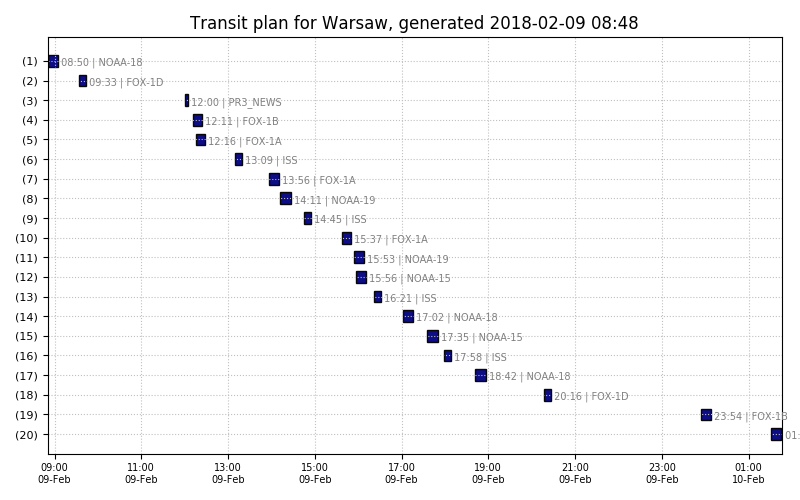
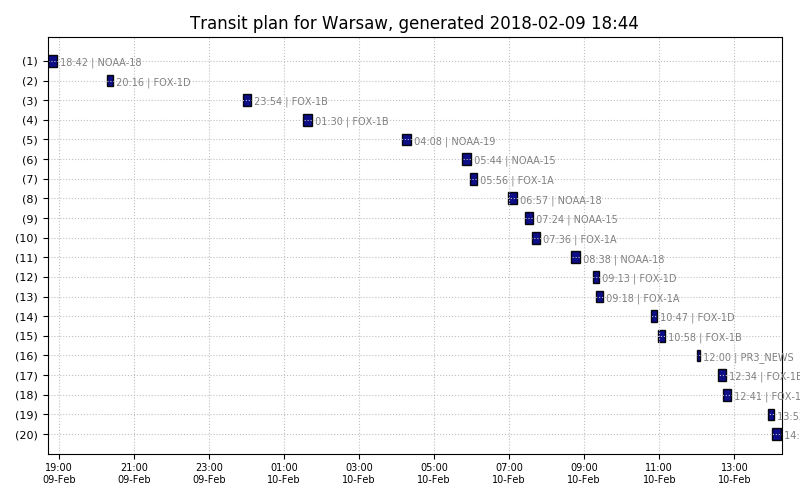
code style fix

diff --git a/var/nextpass.html b/var/nextpass.html
@@ -1,103 +1,103 @@
 <table>
 <tr><td>#</td><td>satellite</td><td>start</td><td>duration</td><td>peak</td><td>azimuth</td><td>freq</td><td>process with</td><tr>
-<tr><td>1</td><td>NOAA-18</td><td>2018-02-09 08:50</td><td>14:13</td><td>36°</td><td>299° (WNW←↖)</td><td>137912500Hz</td><td>modules/noaa/noaa.sh</td><tr>
-<tr><td>2</td><td>FOX-1D</td><td>2018-02-09 09:33</td><td>10:47</td><td>71°</td><td>102° (E→)</td><td>145880000Hz</td><td>modules/iss/iss_voice.sh</td><tr>
-<tr><td>3</td><td>PR3_NEWS</td><td>2018-02-09 12:00</td><td>05:00</td><td>0°</td><td>0° (N↑)</td><td>98988000Hz</td><td>modules/fm/fm.sh</td><tr>
-<tr><td>4</td><td>FOX-1B</td><td>2018-02-09 12:11</td><td>12:21</td><td>70°</td><td>257° (WSW←↙)</td><td>145960000Hz</td><td>modules/iss/iss_voice.sh</td><tr>
-<tr><td>5</td><td>FOX-1A</td><td>2018-02-09 12:16</td><td>12:49</td><td>25°</td><td>22° (N↑)</td><td>145980000Hz</td><td>modules/iss/iss_voice.sh</td><tr>
-<tr><td>6</td><td>ISS</td><td>2018-02-09 13:09</td><td>09:14</td><td>22°</td><td>147° (SE↘)</td><td>145800000Hz</td><td>modules/iss/iss_voice.sh</td><tr>
-<tr><td>7</td><td>FOX-1A</td><td>2018-02-09 13:56</td><td>14:06</td><td>70°</td><td>44° (NNE↑↗)</td><td>145980000Hz</td><td>modules/iss/iss_voice.sh</td><tr>
-<tr><td>8</td><td>NOAA-19</td><td>2018-02-09 14:11</td><td>15:04</td><td>72°</td><td>69° (ENE→↗)</td><td>137100000Hz</td><td>modules/noaa/noaa.sh</td><tr>
-<tr><td>9</td><td>ISS</td><td>2018-02-09 14:45</td><td>09:59</td><td>63°</td><td>166° (SSE↓↘)</td><td>145800000Hz</td><td>modules/iss/iss_voice.sh</td><tr>
-<tr><td>10</td><td>FOX-1A</td><td>2018-02-09 15:37</td><td>13:07</td><td>26°</td><td>242° (SW↙)</td><td>145980000Hz</td><td>modules/iss/iss_voice.sh</td><tr>
-<tr><td>11</td><td>NOAA-19</td><td>2018-02-09 15:53</td><td>13:36</td><td>22°</td><td>269° (WSW←↙)</td><td>137100000Hz</td><td>modules/noaa/noaa.sh</td><tr>
-<tr><td>12</td><td>NOAA-15</td><td>2018-02-09 15:56</td><td>13:26</td><td>27°</td><td>57° (NE↗)</td><td>137620000Hz</td><td>modules/noaa/noaa.sh</td><tr>
-<tr><td>13</td><td>ISS</td><td>2018-02-09 16:21</td><td>10:02</td><td>76°</td><td>186° (S↓)</td><td>145800000Hz</td><td>modules/iss/iss_voice.sh</td><tr>
-<tr><td>14</td><td>NOAA-18</td><td>2018-02-09 17:02</td><td>13:48</td><td>29°</td><td>57° (NE↗)</td><td>137912500Hz</td><td>modules/noaa/noaa.sh</td><tr>
-<tr><td>15</td><td>NOAA-15</td><td>2018-02-09 17:35</td><td>14:36</td><td>60°</td><td>257° (WSW←↙)</td><td>137620000Hz</td><td>modules/noaa/noaa.sh</td><tr>
-<tr><td>16</td><td>ISS</td><td>2018-02-09 17:58</td><td>09:41</td><td>34°</td><td>205° (SSW↓↙)</td><td>145800000Hz</td><td>modules/iss/iss_voice.sh</td><tr>
-<tr><td>17</td><td>NOAA-18</td><td>2018-02-09 18:42</td><td>15:05</td><td>58°</td><td>257° (WSW←↙)</td><td>137912500Hz</td><td>modules/noaa/noaa.sh</td><tr>
-<tr><td>18</td><td>FOX-1D</td><td>2018-02-09 20:16</td><td>10:52</td><td>75°</td><td>73° (ENE→↗)</td><td>145880000Hz</td><td>modules/iss/iss_voice.sh</td><tr>
-<tr><td>19</td><td>FOX-1B</td><td>2018-02-09 23:54</td><td>13:11</td><td>21°</td><td>89° (ENE→↗)</td><td>145960000Hz</td><td>modules/iss/iss_voice.sh</td><tr>
-<tr><td>20</td><td>FOX-1B</td><td>2018-02-10 01:30</td><td>14:35</td><td>74°</td><td>287° (W←)</td><td>145960000Hz</td><td>modules/iss/iss_voice.sh</td><tr>
-<tr><td>21</td><td>NOAA-19</td><td>2018-02-10 04:08</td><td>15:13</td><td>82°</td><td>288° (W←)</td><td>137100000Hz</td><td>modules/noaa/noaa.sh</td><tr>
-<tr><td>22</td><td>NOAA-15</td><td>2018-02-10 05:44</td><td>13:59</td><td>33°</td><td>95° (E→)</td><td>137620000Hz</td><td>modules/noaa/noaa.sh</td><tr>
-<tr><td>23</td><td>FOX-1A</td><td>2018-02-10 05:56</td><td>11:21</td><td>26°</td><td>117° (ESE→↘)</td><td>145980000Hz</td><td>modules/iss/iss_voice.sh</td><tr>
-<tr><td>24</td><td>NOAA-18</td><td>2018-02-10 06:57</td><td>14:30</td><td>37°</td><td>96° (E→)</td><td>137912500Hz</td><td>modules/noaa/noaa.sh</td><tr>
-<tr><td>25</td><td>NOAA-15</td><td>2018-02-10 07:24</td><td>14:11</td><td>46°</td><td>294° (WNW←↖)</td><td>137620000Hz</td><td>modules/noaa/noaa.sh</td><tr>
-<tr><td>26</td><td>FOX-1A</td><td>2018-02-10 07:36</td><td>12:32</td><td>55°</td><td>319° (NW↖)</td><td>145980000Hz</td><td>modules/iss/iss_voice.sh</td><tr>
-<tr><td>27</td><td>NOAA-18</td><td>2018-02-10 08:38</td><td>14:28</td><td>43°</td><td>296° (WNW←↖)</td><td>137912500Hz</td><td>modules/noaa/noaa.sh</td><tr>
-<tr><td>28</td><td>FOX-1D</td><td>2018-02-10 09:13</td><td>10:37</td><td>42°</td><td>98° (E→)</td><td>145880000Hz</td><td>modules/iss/iss_voice.sh</td><tr>
-<tr><td>29</td><td>FOX-1A</td><td>2018-02-10 09:18</td><td>11:53</td><td>21°</td><td>343° (NNW↑↖)</td><td>145980000Hz</td><td>modules/iss/iss_voice.sh</td><tr>
-<tr><td>30</td><td>FOX-1D</td><td>2018-02-10 10:47</td><td>09:42</td><td>20°</td><td>297° (WNW←↖)</td><td>145880000Hz</td><td>modules/iss/iss_voice.sh</td><tr>
-<tr><td>31</td><td>FOX-1B</td><td>2018-02-10 10:58</td><td>11:42</td><td>27°</td><td>60° (NE↗)</td><td>145960000Hz</td><td>modules/iss/iss_voice.sh</td><tr>
-<tr><td>32</td><td>PR3_NEWS</td><td>2018-02-10 12:00</td><td>05:00</td><td>0°</td><td>0° (N↑)</td><td>98988000Hz</td><td>modules/fm/fm.sh</td><tr>
-<tr><td>33</td><td>FOX-1B</td><td>2018-02-10 12:34</td><td>12:15</td><td>43°</td><td>263° (WSW←↙)</td><td>145960000Hz</td><td>modules/iss/iss_voice.sh</td><tr>
-<tr><td>34</td><td>FOX-1A</td><td>2018-02-10 12:41</td><td>13:29</td><td>35°</td><td>31° (NNE↑↗)</td><td>145980000Hz</td><td>modules/iss/iss_voice.sh</td><tr>
-<tr><td>35</td><td>ISS</td><td>2018-02-10 13:53</td><td>09:56</td><td>49°</td><td>160° (SSE↓↘)</td><td>145800000Hz</td><td>modules/iss/iss_voice.sh</td><tr>
-<tr><td>36</td><td>NOAA-19</td><td>2018-02-10 14:00</td><td>15:02</td><td>59°</td><td>67° (NE↗)</td><td>137100000Hz</td><td>modules/noaa/noaa.sh</td><tr>
-<tr><td>37</td><td>FOX-1A</td><td>2018-02-10 14:21</td><td>14:07</td><td>66°</td><td>231° (SW↙)</td><td>145980000Hz</td><td>modules/iss/iss_voice.sh</td><tr>
-<tr><td>38</td><td>ISS</td><td>2018-02-10 15:29</td><td>10:06</td><td>81°</td><td>180° (S↓)</td><td>145800000Hz</td><td>modules/iss/iss_voice.sh</td><tr>
-<tr><td>39</td><td>NOAA-19</td><td>2018-02-10 15:41</td><td>13:55</td><td>26°</td><td>267° (WSW←↙)</td><td>137100000Hz</td><td>modules/noaa/noaa.sh</td><tr>
-<tr><td>40</td><td>NOAA-18</td><td>2018-02-10 16:50</td><td>13:33</td><td>25°</td><td>55° (NE↗)</td><td>137912500Hz</td><td>modules/noaa/noaa.sh</td><tr>
-<tr><td>41</td><td>NOAA-15</td><td>2018-02-10 17:10</td><td>14:41</td><td>88°</td><td>72° (ENE→↗)</td><td>137620000Hz</td><td>modules/noaa/noaa.sh</td><tr>
-<tr><td>42</td><td>NOAA-18</td><td>2018-02-10 18:30</td><td>15:06</td><td>71°</td><td>255° (WSW←↙)</td><td>137912500Hz</td><td>modules/noaa/noaa.sh</td><tr>
-<tr><td>43</td><td>FOX-1D</td><td>2018-02-10 19:56</td><td>10:40</td><td>45°</td><td>69° (ENE→↗)</td><td>145880000Hz</td><td>modules/iss/iss_voice.sh</td><tr>
-<tr><td>44</td><td>FOX-1B</td><td>2018-02-11 00:16</td><td>13:58</td><td>31°</td><td>93° (E→)</td><td>145960000Hz</td><td>modules/iss/iss_voice.sh</td><tr>
-<tr><td>45</td><td>FOX-1B</td><td>2018-02-11 01:53</td><td>14:21</td><td>51°</td><td>291° (W←)</td><td>145960000Hz</td><td>modules/iss/iss_voice.sh</td><tr>
-<tr><td>46</td><td>NOAA-19</td><td>2018-02-11 03:56</td><td>15:14</td><td>83°</td><td>106° (E→)</td><td>137100000Hz</td><td>modules/noaa/noaa.sh</td><tr>
-<tr><td>47</td><td>NOAA-15</td><td>2018-02-11 05:19</td><td>13:10</td><td>21°</td><td>90° (E→)</td><td>137620000Hz</td><td>modules/noaa/noaa.sh</td><tr>
-<tr><td>48</td><td>NOAA-19</td><td>2018-02-11 05:37</td><td>13:23</td><td>22°</td><td>306° (WNW←↖)</td><td>137100000Hz</td><td>modules/noaa/noaa.sh</td><tr>
-<tr><td>49</td><td>FOX-1A</td><td>2018-02-11 06:21</td><td>12:17</td><td>56°</td><td>126° (ESE→↘)</td><td>145980000Hz</td><td>modules/iss/iss_voice.sh</td><tr>
-<tr><td>50</td><td>NOAA-18</td><td>2018-02-11 06:46</td><td>14:12</td><td>30°</td><td>94° (E→)</td><td>137912500Hz</td><td>modules/noaa/noaa.sh</td><tr>
-<tr><td>51</td><td>NOAA-15</td><td>2018-02-11 06:59</td><td>14:32</td><td>70°</td><td>289° (W←)</td><td>137620000Hz</td><td>modules/noaa/noaa.sh</td><tr>
-<tr><td>52</td><td>FOX-1A</td><td>2018-02-11 08:01</td><td>12:20</td><td>33°</td><td>329° (NW↖)</td><td>145980000Hz</td><td>modules/iss/iss_voice.sh</td><tr>
-<tr><td>53</td><td>NOAA-18</td><td>2018-02-11 08:27</td><td>14:41</td><td>51°</td><td>294° (WNW←↖)</td><td>137912500Hz</td><td>modules/noaa/noaa.sh</td><tr>
-<tr><td>54</td><td>FOX-1D</td><td>2018-02-11 08:53</td><td>10:13</td><td>26°</td><td>94° (E→)</td><td>145880000Hz</td><td>modules/iss/iss_voice.sh</td><tr>
-<tr><td>55</td><td>FOX-1D</td><td>2018-02-11 10:27</td><td>10:15</td><td>30°</td><td>293° (WNW←↖)</td><td>145880000Hz</td><td>modules/iss/iss_voice.sh</td><tr>
-<tr><td>56</td><td>FOX-1B</td><td>2018-02-11 11:19</td><td>12:18</td><td>40°</td><td>65° (NE↗)</td><td>145960000Hz</td><td>modules/iss/iss_voice.sh</td><tr>
-<tr><td>57</td><td>FOX-1A</td><td>2018-02-11 11:25</td><td>12:32</td><td>22°</td><td>18° (N↑)</td><td>145980000Hz</td><td>modules/iss/iss_voice.sh</td><tr>
-<tr><td>58</td><td>PR3_NEWS</td><td>2018-02-11 12:00</td><td>05:00</td><td>0°</td><td>0° (N↑)</td><td>98988000Hz</td><td>modules/fm/fm.sh</td><tr>
-<tr><td>59</td><td>FOX-1B</td><td>2018-02-11 12:56</td><td>11:52</td><td>28°</td><td>268° (WSW←↙)</td><td>145960000Hz</td><td>modules/iss/iss_voice.sh</td><tr>
-<tr><td>60</td><td>FOX-1A</td><td>2018-02-11 13:06</td><td>14:06</td><td>55°</td><td>40° (NNE↑↗)</td><td>145980000Hz</td><td>modules/iss/iss_voice.sh</td><tr>
-<tr><td>61</td><td>NOAA-19</td><td>2018-02-11 13:48</td><td>14:46</td><td>49°</td><td>64° (NE↗)</td><td>137100000Hz</td><td>modules/noaa/noaa.sh</td><tr>
-<tr><td>62</td><td>ISS</td><td>2018-02-11 14:37</td><td>10:02</td><td>78°</td><td>174° (SSE↓↘)</td><td>145800000Hz</td><td>modules/iss/iss_voice.sh</td><tr>
-<tr><td>63</td><td>FOX-1A</td><td>2018-02-11 14:46</td><td>13:36</td><td>35°</td><td>239° (SW↙)</td><td>145980000Hz</td><td>modules/iss/iss_voice.sh</td><tr>
-<tr><td>64</td><td>NOAA-19</td><td>2018-02-11 15:30</td><td>14:24</td><td>32°</td><td>265° (WSW←↙)</td><td>137100000Hz</td><td>modules/noaa/noaa.sh</td><tr>
-<tr><td>65</td><td>ISS</td><td>2018-02-11 16:13</td><td>09:59</td><td>61°</td><td>194° (S↓)</td><td>145800000Hz</td><td>modules/iss/iss_voice.sh</td><tr>
-<tr><td>66</td><td>NOAA-18</td><td>2018-02-11 16:39</td><td>13:07</td><td>21°</td><td>52° (NE↗)</td><td>137912500Hz</td><td>modules/noaa/noaa.sh</td><tr>
-<tr><td>67</td><td>NOAA-15</td><td>2018-02-11 16:45</td><td>14:29</td><td>59°</td><td>68° (ENE→↗)</td><td>137620000Hz</td><td>modules/noaa/noaa.sh</td><tr>
-<tr><td>68</td><td>ISS</td><td>2018-02-11 17:50</td><td>09:09</td><td>20°</td><td>213° (SSW↓↙)</td><td>145800000Hz</td><td>modules/iss/iss_voice.sh</td><tr>
-<tr><td>69</td><td>NOAA-18</td><td>2018-02-11 18:18</td><td>15:04</td><td>86°</td><td>253° (WSW←↙)</td><td>137912500Hz</td><td>modules/noaa/noaa.sh</td><tr>
-<tr><td>70</td><td>NOAA-15</td><td>2018-02-11 18:26</td><td>13:38</td><td>25°</td><td>267° (WSW←↙)</td><td>137620000Hz</td><td>modules/noaa/noaa.sh</td><tr>
-<tr><td>71</td><td>FOX-1D</td><td>2018-02-11 19:36</td><td>10:16</td><td>28°</td><td>65° (NE↗)</td><td>145880000Hz</td><td>modules/iss/iss_voice.sh</td><tr>
-<tr><td>72</td><td>FOX-1D</td><td>2018-02-11 21:10</td><td>10:24</td><td>28°</td><td>264° (WSW←↙)</td><td>145880000Hz</td><td>modules/iss/iss_voice.sh</td><tr>
-<tr><td>73</td><td>FOX-1B</td><td>2018-02-12 00:38</td><td>14:29</td><td>46°</td><td>97° (E→)</td><td>145960000Hz</td><td>modules/iss/iss_voice.sh</td><tr>
-<tr><td>74</td><td>FOX-1B</td><td>2018-02-12 02:15</td><td>13:56</td><td>35°</td><td>296° (WNW←↖)</td><td>145960000Hz</td><td>modules/iss/iss_voice.sh</td><tr>
-<tr><td>75</td><td>NOAA-19</td><td>2018-02-12 03:45</td><td>15:13</td><td>69°</td><td>103° (E→)</td><td>137100000Hz</td><td>modules/noaa/noaa.sh</td><tr>
-<tr><td>76</td><td>NOAA-19</td><td>2018-02-12 05:26</td><td>13:47</td><td>26°</td><td>304° (WNW←↖)</td><td>137100000Hz</td><td>modules/noaa/noaa.sh</td><tr>
-<tr><td>77</td><td>NOAA-15</td><td>2018-02-12 06:34</td><td>14:37</td><td>78°</td><td>104° (E→)</td><td>137620000Hz</td><td>modules/noaa/noaa.sh</td><tr>
-<tr><td>78</td><td>NOAA-18</td><td>2018-02-12 06:34</td><td>13:54</td><td>25°</td><td>92° (E→)</td><td>137912500Hz</td><td>modules/noaa/noaa.sh</td><tr>
-<tr><td>79</td><td>FOX-1A</td><td>2018-02-12 06:46</td><td>12:34</td><td>73°</td><td>315° (NW↖)</td><td>145980000Hz</td><td>modules/iss/iss_voice.sh</td><tr>
-<tr><td>80</td><td>NOAA-15</td><td>2018-02-12 08:14</td><td>12:53</td><td>22°</td><td>305° (WNW←↖)</td><td>137620000Hz</td><td>modules/noaa/noaa.sh</td><tr>
-<tr><td>81</td><td>NOAA-18</td><td>2018-02-12 08:15</td><td>14:50</td><td>62°</td><td>292° (W←)</td><td>137912500Hz</td><td>modules/noaa/noaa.sh</td><tr>
-<tr><td>82</td><td>FOX-1A</td><td>2018-02-12 08:27</td><td>11:55</td><td>23°</td><td>339° (NNW↑↖)</td><td>145980000Hz</td><td>modules/iss/iss_voice.sh</td><tr>
-<tr><td>83</td><td>FOX-1D</td><td>2018-02-12 10:06</td><td>10:37</td><td>48°</td><td>289° (W←)</td><td>145880000Hz</td><td>modules/iss/iss_voice.sh</td><tr>
-<tr><td>84</td><td>FOX-1B</td><td>2018-02-12 11:41</td><td>12:42</td><td>63°</td><td>70° (ENE→↗)</td><td>145960000Hz</td><td>modules/iss/iss_voice.sh</td><tr>
-<tr><td>85</td><td>FOX-1A</td><td>2018-02-12 11:50</td><td>13:12</td><td>29°</td><td>27° (NNE↑↗)</td><td>145980000Hz</td><td>modules/iss/iss_voice.sh</td><tr>
-<tr><td>86</td><td>PR3_NEWS</td><td>2018-02-12 12:00</td><td>05:00</td><td>0°</td><td>0° (N↑)</td><td>98988000Hz</td><td>modules/fm/fm.sh</td><tr>
-<tr><td>87</td><td>ISS</td><td>2018-02-12 12:09</td><td>09:29</td><td>25°</td><td>149° (SE↘)</td><td>145800000Hz</td><td>modules/iss/iss_voice.sh</td><tr>
-<tr><td>88</td><td>NOAA-19</td><td>2018-02-12 13:37</td><td>14:33</td><td>41°</td><td>62° (NE↗)</td><td>137100000Hz</td><td>modules/noaa/noaa.sh</td><tr>
-<tr><td>89</td><td>NOAA-19</td><td>2018-02-12 15:18</td><td>14:41</td><td>39°</td><td>262° (WSW←↙)</td><td>137100000Hz</td><td>modules/noaa/noaa.sh</td><tr>
-<tr><td>90</td><td>NOAA-15</td><td>2018-02-12 16:21</td><td>14:04</td><td>39°</td><td>63° (NE↗)</td><td>137620000Hz</td><td>modules/noaa/noaa.sh</td><tr>
-<tr><td>91</td><td>ISS</td><td>2018-02-12 16:57</td><td>09:35</td><td>29°</td><td>207° (SSW↓↙)</td><td>145800000Hz</td><td>modules/iss/iss_voice.sh</td><tr>
-<tr><td>92</td><td>NOAA-15</td><td>2018-02-12 18:00</td><td>14:16</td><td>39°</td><td>262° (WSW←↙)</td><td>137620000Hz</td><td>modules/noaa/noaa.sh</td><tr>
-<tr><td>93</td><td>NOAA-18</td><td>2018-02-12 18:07</td><td>15:08</td><td>79°</td><td>70° (ENE→↗)</td><td>137912500Hz</td><td>modules/noaa/noaa.sh</td><tr>
-<tr><td>94</td><td>FOX-1D</td><td>2018-02-12 20:49</td><td>10:45</td><td>46°</td><td>260° (WSW←↙)</td><td>145880000Hz</td><td>modules/iss/iss_voice.sh</td><tr>
-<tr><td>95</td><td>FOX-1B</td><td>2018-02-13 01:01</td><td>14:43</td><td>68°</td><td>101° (E→)</td><td>145960000Hz</td><td>modules/iss/iss_voice.sh</td><tr>
-<tr><td>96</td><td>FOX-1B</td><td>2018-02-13 02:37</td><td>13:19</td><td>25°</td><td>300° (WNW←↖)</td><td>145960000Hz</td><td>modules/iss/iss_voice.sh</td><tr>
-<tr><td>97</td><td>NOAA-19</td><td>2018-02-13 03:33</td><td>15:08</td><td>57°</td><td>101° (E→)</td><td>137100000Hz</td><td>modules/noaa/noaa.sh</td><tr>
-<tr><td>98</td><td>NOAA-19</td><td>2018-02-13 05:14</td><td>14:08</td><td>30°</td><td>301° (WNW←↖)</td><td>137100000Hz</td><td>modules/noaa/noaa.sh</td><tr>
-<tr><td>99</td><td>FOX-1A</td><td>2018-02-13 05:31</td><td>12:00</td><td>39°</td><td>122° (ESE→↘)</td><td>145980000Hz</td><td>modules/iss/iss_voice.sh</td><tr>
-<tr><td>100</td><td>NOAA-15</td><td>2018-02-13 06:09</td><td>14:27</td><td>50°</td><td>100° (E→)</td><td>137620000Hz</td><td>modules/noaa/noaa.sh</td><tr>
+<tr><td>1</td><td>NOAA-18</td><td>2018-02-09 18:42</td><td>15:05</td><td>58°</td><td>257° (WSW←↙)</td><td>137912500Hz</td><td>modules/noaa/noaa.sh</td><tr>
+<tr><td>2</td><td>FOX-1D</td><td>2018-02-09 20:16</td><td>10:52</td><td>75°</td><td>73° (ENE→↗)</td><td>145880000Hz</td><td>modules/iss/iss_voice.sh</td><tr>
+<tr><td>3</td><td>FOX-1B</td><td>2018-02-09 23:54</td><td>13:11</td><td>21°</td><td>89° (ENE→↗)</td><td>145960000Hz</td><td>modules/iss/iss_voice.sh</td><tr>
+<tr><td>4</td><td>FOX-1B</td><td>2018-02-10 01:30</td><td>14:35</td><td>74°</td><td>287° (W←)</td><td>145960000Hz</td><td>modules/iss/iss_voice.sh</td><tr>
+<tr><td>5</td><td>NOAA-19</td><td>2018-02-10 04:08</td><td>15:13</td><td>82°</td><td>288° (W←)</td><td>137100000Hz</td><td>modules/noaa/noaa.sh</td><tr>
+<tr><td>6</td><td>NOAA-15</td><td>2018-02-10 05:44</td><td>13:59</td><td>33°</td><td>95° (E→)</td><td>137620000Hz</td><td>modules/noaa/noaa.sh</td><tr>
+<tr><td>7</td><td>FOX-1A</td><td>2018-02-10 05:56</td><td>11:21</td><td>26°</td><td>117° (ESE→↘)</td><td>145980000Hz</td><td>modules/iss/iss_voice.sh</td><tr>
+<tr><td>8</td><td>NOAA-18</td><td>2018-02-10 06:57</td><td>14:30</td><td>37°</td><td>96° (E→)</td><td>137912500Hz</td><td>modules/noaa/noaa.sh</td><tr>
+<tr><td>9</td><td>NOAA-15</td><td>2018-02-10 07:24</td><td>14:11</td><td>46°</td><td>294° (WNW←↖)</td><td>137620000Hz</td><td>modules/noaa/noaa.sh</td><tr>
+<tr><td>10</td><td>FOX-1A</td><td>2018-02-10 07:36</td><td>12:32</td><td>55°</td><td>319° (NW↖)</td><td>145980000Hz</td><td>modules/iss/iss_voice.sh</td><tr>
+<tr><td>11</td><td>NOAA-18</td><td>2018-02-10 08:38</td><td>14:28</td><td>43°</td><td>296° (WNW←↖)</td><td>137912500Hz</td><td>modules/noaa/noaa.sh</td><tr>
+<tr><td>12</td><td>FOX-1D</td><td>2018-02-10 09:13</td><td>10:37</td><td>42°</td><td>98° (E→)</td><td>145880000Hz</td><td>modules/iss/iss_voice.sh</td><tr>
+<tr><td>13</td><td>FOX-1A</td><td>2018-02-10 09:18</td><td>11:53</td><td>21°</td><td>343° (NNW↑↖)</td><td>145980000Hz</td><td>modules/iss/iss_voice.sh</td><tr>
+<tr><td>14</td><td>FOX-1D</td><td>2018-02-10 10:47</td><td>09:42</td><td>20°</td><td>297° (WNW←↖)</td><td>145880000Hz</td><td>modules/iss/iss_voice.sh</td><tr>
+<tr><td>15</td><td>FOX-1B</td><td>2018-02-10 10:58</td><td>11:42</td><td>27°</td><td>60° (NE↗)</td><td>145960000Hz</td><td>modules/iss/iss_voice.sh</td><tr>
+<tr><td>16</td><td>PR3_NEWS</td><td>2018-02-10 12:00</td><td>05:00</td><td>0°</td><td>0° (N↑)</td><td>98988000Hz</td><td>modules/fm/fm.sh</td><tr>
+<tr><td>17</td><td>FOX-1B</td><td>2018-02-10 12:34</td><td>12:15</td><td>43°</td><td>263° (WSW←↙)</td><td>145960000Hz</td><td>modules/iss/iss_voice.sh</td><tr>
+<tr><td>18</td><td>FOX-1A</td><td>2018-02-10 12:41</td><td>13:29</td><td>35°</td><td>31° (NNE↑↗)</td><td>145980000Hz</td><td>modules/iss/iss_voice.sh</td><tr>
+<tr><td>19</td><td>ISS</td><td>2018-02-10 13:53</td><td>09:56</td><td>49°</td><td>160° (SSE↓↘)</td><td>145800000Hz</td><td>modules/iss/iss_voice.sh</td><tr>
+<tr><td>20</td><td>NOAA-19</td><td>2018-02-10 14:00</td><td>15:02</td><td>59°</td><td>67° (NE↗)</td><td>137100000Hz</td><td>modules/noaa/noaa.sh</td><tr>
+<tr><td>21</td><td>FOX-1A</td><td>2018-02-10 14:21</td><td>14:07</td><td>66°</td><td>231° (SW↙)</td><td>145980000Hz</td><td>modules/iss/iss_voice.sh</td><tr>
+<tr><td>22</td><td>ISS</td><td>2018-02-10 15:29</td><td>10:06</td><td>81°</td><td>180° (S↓)</td><td>145800000Hz</td><td>modules/iss/iss_voice.sh</td><tr>
+<tr><td>23</td><td>NOAA-19</td><td>2018-02-10 15:41</td><td>13:55</td><td>26°</td><td>267° (WSW←↙)</td><td>137100000Hz</td><td>modules/noaa/noaa.sh</td><tr>
+<tr><td>24</td><td>NOAA-18</td><td>2018-02-10 16:50</td><td>13:33</td><td>25°</td><td>55° (NE↗)</td><td>137912500Hz</td><td>modules/noaa/noaa.sh</td><tr>
+<tr><td>25</td><td>NOAA-15</td><td>2018-02-10 17:10</td><td>14:41</td><td>88°</td><td>72° (ENE→↗)</td><td>137620000Hz</td><td>modules/noaa/noaa.sh</td><tr>
+<tr><td>26</td><td>NOAA-18</td><td>2018-02-10 18:30</td><td>15:06</td><td>71°</td><td>255° (WSW←↙)</td><td>137912500Hz</td><td>modules/noaa/noaa.sh</td><tr>
+<tr><td>27</td><td>FOX-1D</td><td>2018-02-10 19:56</td><td>10:40</td><td>45°</td><td>69° (ENE→↗)</td><td>145880000Hz</td><td>modules/iss/iss_voice.sh</td><tr>
+<tr><td>28</td><td>FOX-1B</td><td>2018-02-11 00:16</td><td>13:58</td><td>31°</td><td>93° (E→)</td><td>145960000Hz</td><td>modules/iss/iss_voice.sh</td><tr>
+<tr><td>29</td><td>FOX-1B</td><td>2018-02-11 01:53</td><td>14:21</td><td>51°</td><td>291° (W←)</td><td>145960000Hz</td><td>modules/iss/iss_voice.sh</td><tr>
+<tr><td>30</td><td>NOAA-19</td><td>2018-02-11 03:56</td><td>15:14</td><td>83°</td><td>106° (E→)</td><td>137100000Hz</td><td>modules/noaa/noaa.sh</td><tr>
+<tr><td>31</td><td>NOAA-15</td><td>2018-02-11 05:19</td><td>13:10</td><td>21°</td><td>90° (E→)</td><td>137620000Hz</td><td>modules/noaa/noaa.sh</td><tr>
+<tr><td>32</td><td>NOAA-19</td><td>2018-02-11 05:37</td><td>13:23</td><td>22°</td><td>306° (WNW←↖)</td><td>137100000Hz</td><td>modules/noaa/noaa.sh</td><tr>
+<tr><td>33</td><td>FOX-1A</td><td>2018-02-11 06:21</td><td>12:17</td><td>56°</td><td>126° (ESE→↘)</td><td>145980000Hz</td><td>modules/iss/iss_voice.sh</td><tr>
+<tr><td>34</td><td>NOAA-18</td><td>2018-02-11 06:46</td><td>14:12</td><td>30°</td><td>94° (E→)</td><td>137912500Hz</td><td>modules/noaa/noaa.sh</td><tr>
+<tr><td>35</td><td>NOAA-15</td><td>2018-02-11 06:59</td><td>14:32</td><td>70°</td><td>289° (W←)</td><td>137620000Hz</td><td>modules/noaa/noaa.sh</td><tr>
+<tr><td>36</td><td>FOX-1A</td><td>2018-02-11 08:01</td><td>12:20</td><td>33°</td><td>329° (NW↖)</td><td>145980000Hz</td><td>modules/iss/iss_voice.sh</td><tr>
+<tr><td>37</td><td>NOAA-18</td><td>2018-02-11 08:27</td><td>14:41</td><td>51°</td><td>294° (WNW←↖)</td><td>137912500Hz</td><td>modules/noaa/noaa.sh</td><tr>
+<tr><td>38</td><td>FOX-1D</td><td>2018-02-11 08:53</td><td>10:13</td><td>26°</td><td>94° (E→)</td><td>145880000Hz</td><td>modules/iss/iss_voice.sh</td><tr>
+<tr><td>39</td><td>FOX-1D</td><td>2018-02-11 10:27</td><td>10:15</td><td>30°</td><td>293° (WNW←↖)</td><td>145880000Hz</td><td>modules/iss/iss_voice.sh</td><tr>
+<tr><td>40</td><td>FOX-1B</td><td>2018-02-11 11:19</td><td>12:18</td><td>40°</td><td>65° (NE↗)</td><td>145960000Hz</td><td>modules/iss/iss_voice.sh</td><tr>
+<tr><td>41</td><td>FOX-1A</td><td>2018-02-11 11:25</td><td>12:32</td><td>22°</td><td>18° (N↑)</td><td>145980000Hz</td><td>modules/iss/iss_voice.sh</td><tr>
+<tr><td>42</td><td>PR3_NEWS</td><td>2018-02-11 12:00</td><td>05:00</td><td>0°</td><td>0° (N↑)</td><td>98988000Hz</td><td>modules/fm/fm.sh</td><tr>
+<tr><td>43</td><td>FOX-1B</td><td>2018-02-11 12:56</td><td>11:52</td><td>28°</td><td>268° (WSW←↙)</td><td>145960000Hz</td><td>modules/iss/iss_voice.sh</td><tr>
+<tr><td>44</td><td>FOX-1A</td><td>2018-02-11 13:06</td><td>14:06</td><td>55°</td><td>40° (NNE↑↗)</td><td>145980000Hz</td><td>modules/iss/iss_voice.sh</td><tr>
+<tr><td>45</td><td>NOAA-19</td><td>2018-02-11 13:48</td><td>14:46</td><td>49°</td><td>64° (NE↗)</td><td>137100000Hz</td><td>modules/noaa/noaa.sh</td><tr>
+<tr><td>46</td><td>ISS</td><td>2018-02-11 14:37</td><td>10:02</td><td>78°</td><td>174° (SSE↓↘)</td><td>145800000Hz</td><td>modules/iss/iss_voice.sh</td><tr>
+<tr><td>47</td><td>FOX-1A</td><td>2018-02-11 14:46</td><td>13:36</td><td>35°</td><td>239° (SW↙)</td><td>145980000Hz</td><td>modules/iss/iss_voice.sh</td><tr>
+<tr><td>48</td><td>NOAA-19</td><td>2018-02-11 15:30</td><td>14:24</td><td>32°</td><td>265° (WSW←↙)</td><td>137100000Hz</td><td>modules/noaa/noaa.sh</td><tr>
+<tr><td>49</td><td>ISS</td><td>2018-02-11 16:13</td><td>09:59</td><td>61°</td><td>194° (S↓)</td><td>145800000Hz</td><td>modules/iss/iss_voice.sh</td><tr>
+<tr><td>50</td><td>NOAA-18</td><td>2018-02-11 16:39</td><td>13:07</td><td>21°</td><td>52° (NE↗)</td><td>137912500Hz</td><td>modules/noaa/noaa.sh</td><tr>
+<tr><td>51</td><td>NOAA-15</td><td>2018-02-11 16:45</td><td>14:29</td><td>59°</td><td>68° (ENE→↗)</td><td>137620000Hz</td><td>modules/noaa/noaa.sh</td><tr>
+<tr><td>52</td><td>ISS</td><td>2018-02-11 17:50</td><td>09:09</td><td>20°</td><td>213° (SSW↓↙)</td><td>145800000Hz</td><td>modules/iss/iss_voice.sh</td><tr>
+<tr><td>53</td><td>NOAA-18</td><td>2018-02-11 18:18</td><td>15:04</td><td>86°</td><td>253° (WSW←↙)</td><td>137912500Hz</td><td>modules/noaa/noaa.sh</td><tr>
+<tr><td>54</td><td>NOAA-15</td><td>2018-02-11 18:26</td><td>13:38</td><td>25°</td><td>267° (WSW←↙)</td><td>137620000Hz</td><td>modules/noaa/noaa.sh</td><tr>
+<tr><td>55</td><td>FOX-1D</td><td>2018-02-11 19:36</td><td>10:16</td><td>28°</td><td>65° (NE↗)</td><td>145880000Hz</td><td>modules/iss/iss_voice.sh</td><tr>
+<tr><td>56</td><td>FOX-1D</td><td>2018-02-11 21:10</td><td>10:24</td><td>28°</td><td>264° (WSW←↙)</td><td>145880000Hz</td><td>modules/iss/iss_voice.sh</td><tr>
+<tr><td>57</td><td>FOX-1B</td><td>2018-02-12 00:38</td><td>14:29</td><td>46°</td><td>97° (E→)</td><td>145960000Hz</td><td>modules/iss/iss_voice.sh</td><tr>
+<tr><td>58</td><td>FOX-1B</td><td>2018-02-12 02:15</td><td>13:56</td><td>35°</td><td>296° (WNW←↖)</td><td>145960000Hz</td><td>modules/iss/iss_voice.sh</td><tr>
+<tr><td>59</td><td>NOAA-19</td><td>2018-02-12 03:45</td><td>15:13</td><td>69°</td><td>103° (E→)</td><td>137100000Hz</td><td>modules/noaa/noaa.sh</td><tr>
+<tr><td>60</td><td>NOAA-19</td><td>2018-02-12 05:26</td><td>13:47</td><td>26°</td><td>304° (WNW←↖)</td><td>137100000Hz</td><td>modules/noaa/noaa.sh</td><tr>
+<tr><td>61</td><td>NOAA-15</td><td>2018-02-12 06:34</td><td>14:37</td><td>78°</td><td>104° (E→)</td><td>137620000Hz</td><td>modules/noaa/noaa.sh</td><tr>
+<tr><td>62</td><td>NOAA-18</td><td>2018-02-12 06:34</td><td>13:54</td><td>25°</td><td>92° (E→)</td><td>137912500Hz</td><td>modules/noaa/noaa.sh</td><tr>
+<tr><td>63</td><td>FOX-1A</td><td>2018-02-12 06:46</td><td>12:34</td><td>73°</td><td>315° (NW↖)</td><td>145980000Hz</td><td>modules/iss/iss_voice.sh</td><tr>
+<tr><td>64</td><td>NOAA-15</td><td>2018-02-12 08:14</td><td>12:53</td><td>22°</td><td>305° (WNW←↖)</td><td>137620000Hz</td><td>modules/noaa/noaa.sh</td><tr>
+<tr><td>65</td><td>NOAA-18</td><td>2018-02-12 08:15</td><td>14:50</td><td>62°</td><td>292° (W←)</td><td>137912500Hz</td><td>modules/noaa/noaa.sh</td><tr>
+<tr><td>66</td><td>FOX-1A</td><td>2018-02-12 08:27</td><td>11:55</td><td>23°</td><td>339° (NNW↑↖)</td><td>145980000Hz</td><td>modules/iss/iss_voice.sh</td><tr>
+<tr><td>67</td><td>FOX-1D</td><td>2018-02-12 10:06</td><td>10:37</td><td>48°</td><td>289° (W←)</td><td>145880000Hz</td><td>modules/iss/iss_voice.sh</td><tr>
+<tr><td>68</td><td>FOX-1B</td><td>2018-02-12 11:41</td><td>12:42</td><td>63°</td><td>70° (ENE→↗)</td><td>145960000Hz</td><td>modules/iss/iss_voice.sh</td><tr>
+<tr><td>69</td><td>FOX-1A</td><td>2018-02-12 11:50</td><td>13:12</td><td>29°</td><td>27° (NNE↑↗)</td><td>145980000Hz</td><td>modules/iss/iss_voice.sh</td><tr>
+<tr><td>70</td><td>PR3_NEWS</td><td>2018-02-12 12:00</td><td>05:00</td><td>0°</td><td>0° (N↑)</td><td>98988000Hz</td><td>modules/fm/fm.sh</td><tr>
+<tr><td>71</td><td>ISS</td><td>2018-02-12 12:09</td><td>09:29</td><td>25°</td><td>149° (SE↘)</td><td>145800000Hz</td><td>modules/iss/iss_voice.sh</td><tr>
+<tr><td>72</td><td>NOAA-19</td><td>2018-02-12 13:37</td><td>14:33</td><td>41°</td><td>62° (NE↗)</td><td>137100000Hz</td><td>modules/noaa/noaa.sh</td><tr>
+<tr><td>73</td><td>NOAA-19</td><td>2018-02-12 15:18</td><td>14:41</td><td>39°</td><td>262° (WSW←↙)</td><td>137100000Hz</td><td>modules/noaa/noaa.sh</td><tr>
+<tr><td>74</td><td>NOAA-15</td><td>2018-02-12 16:21</td><td>14:04</td><td>39°</td><td>63° (NE↗)</td><td>137620000Hz</td><td>modules/noaa/noaa.sh</td><tr>
+<tr><td>75</td><td>ISS</td><td>2018-02-12 16:57</td><td>09:35</td><td>29°</td><td>207° (SSW↓↙)</td><td>145800000Hz</td><td>modules/iss/iss_voice.sh</td><tr>
+<tr><td>76</td><td>NOAA-15</td><td>2018-02-12 18:00</td><td>14:16</td><td>39°</td><td>262° (WSW←↙)</td><td>137620000Hz</td><td>modules/noaa/noaa.sh</td><tr>
+<tr><td>77</td><td>NOAA-18</td><td>2018-02-12 18:07</td><td>15:08</td><td>79°</td><td>70° (ENE→↗)</td><td>137912500Hz</td><td>modules/noaa/noaa.sh</td><tr>
+<tr><td>78</td><td>FOX-1D</td><td>2018-02-12 20:49</td><td>10:45</td><td>46°</td><td>260° (WSW←↙)</td><td>145880000Hz</td><td>modules/iss/iss_voice.sh</td><tr>
+<tr><td>79</td><td>FOX-1B</td><td>2018-02-13 01:01</td><td>14:43</td><td>68°</td><td>101° (E→)</td><td>145960000Hz</td><td>modules/iss/iss_voice.sh</td><tr>
+<tr><td>80</td><td>FOX-1B</td><td>2018-02-13 02:37</td><td>13:19</td><td>25°</td><td>300° (WNW←↖)</td><td>145960000Hz</td><td>modules/iss/iss_voice.sh</td><tr>
+<tr><td>81</td><td>NOAA-19</td><td>2018-02-13 03:33</td><td>15:08</td><td>57°</td><td>101° (E→)</td><td>137100000Hz</td><td>modules/noaa/noaa.sh</td><tr>
+<tr><td>82</td><td>NOAA-19</td><td>2018-02-13 05:14</td><td>14:08</td><td>30°</td><td>301° (WNW←↖)</td><td>137100000Hz</td><td>modules/noaa/noaa.sh</td><tr>
+<tr><td>83</td><td>FOX-1A</td><td>2018-02-13 05:31</td><td>12:00</td><td>39°</td><td>122° (ESE→↘)</td><td>145980000Hz</td><td>modules/iss/iss_voice.sh</td><tr>
+<tr><td>84</td><td>NOAA-15</td><td>2018-02-13 06:09</td><td>14:27</td><td>50°</td><td>100° (E→)</td><td>137620000Hz</td><td>modules/noaa/noaa.sh</td><tr>
+<tr><td>85</td><td>NOAA-18</td><td>2018-02-13 06:23</td><td>13:23</td><td>20°</td><td>89° (ENE→↗)</td><td>137912500Hz</td><td>modules/noaa/noaa.sh</td><tr>
+<tr><td>86</td><td>FOX-1A</td><td>2018-02-13 07:11</td><td>12:29</td><td>41°</td><td>324° (NW↖)</td><td>145980000Hz</td><td>modules/iss/iss_voice.sh</td><tr>
+<tr><td>87</td><td>NOAA-15</td><td>2018-02-13 07:49</td><td>13:39</td><td>31°</td><td>300° (WNW←↖)</td><td>137620000Hz</td><td>modules/noaa/noaa.sh</td><tr>
+<tr><td>88</td><td>NOAA-18</td><td>2018-02-13 08:03</td><td>14:57</td><td>75°</td><td>289° (W←)</td><td>137912500Hz</td><td>modules/noaa/noaa.sh</td><tr>
+<tr><td>89</td><td>FOX-1D</td><td>2018-02-13 09:46</td><td>10:47</td><td>82°</td><td>285° (W←)</td><td>145880000Hz</td><td>modules/iss/iss_voice.sh</td><tr>
+<tr><td>90</td><td>FOX-1A</td><td>2018-02-13 10:34</td><td>12:18</td><td>20°</td><td>13° (N↑)</td><td>145980000Hz</td><td>modules/iss/iss_voice.sh</td><tr>
+<tr><td>91</td><td>PR3_NEWS</td><td>2018-02-13 12:00</td><td>05:00</td><td>0°</td><td>0° (N↑)</td><td>98988000Hz</td><td>modules/fm/fm.sh</td><tr>
+<tr><td>92</td><td>FOX-1B</td><td>2018-02-13 12:03</td><td>12:54</td><td>82°</td><td>256° (WSW←↙)</td><td>145960000Hz</td><td>modules/iss/iss_voice.sh</td><tr>
+<tr><td>93</td><td>FOX-1A</td><td>2018-02-13 12:15</td><td>13:48</td><td>44°</td><td>36° (NNE↑↗)</td><td>145980000Hz</td><td>modules/iss/iss_voice.sh</td><tr>
+<tr><td>94</td><td>ISS</td><td>2018-02-13 12:52</td><td>09:56</td><td>54°</td><td>162° (SSE↓↘)</td><td>145800000Hz</td><td>modules/iss/iss_voice.sh</td><tr>
+<tr><td>95</td><td>NOAA-19</td><td>2018-02-13 13:26</td><td>14:18</td><td>35°</td><td>60° (NE↗)</td><td>137100000Hz</td><td>modules/noaa/noaa.sh</td><tr>
+<tr><td>96</td><td>FOX-1A</td><td>2018-02-13 13:56</td><td>13:56</td><td>47°</td><td>236° (SW↙)</td><td>145980000Hz</td><td>modules/iss/iss_voice.sh</td><tr>
+<tr><td>97</td><td>ISS</td><td>2018-02-13 14:29</td><td>10:02</td><td>80°</td><td>182° (S↓)</td><td>145800000Hz</td><td>modules/iss/iss_voice.sh</td><tr>
+<tr><td>98</td><td>NOAA-19</td><td>2018-02-13 15:06</td><td>14:54</td><td>47°</td><td>260° (WSW←↙)</td><td>137100000Hz</td><td>modules/noaa/noaa.sh</td><tr>
+<tr><td>99</td><td>NOAA-15</td><td>2018-02-13 15:56</td><td>13:25</td><td>27°</td><td>57° (NE↗)</td><td>137620000Hz</td><td>modules/noaa/noaa.sh</td><tr>
+<tr><td>100</td><td>NOAA-15</td><td>2018-02-13 17:35</td><td>14:34</td><td>61°</td><td>257° (WSW←↙)</td><td>137620000Hz</td><td>modules/noaa/noaa.sh</td><tr>
 </table>

diff --git a/genpasstable.py b/genpasstable.py
@@ -19,7 +19,7 @@ matplotlib.use('Agg')  # Force matplotlib to not use any Xwindows backend.
 import matplotlib.pyplot as plt
 import matplotlib.font_manager as font_manager
 import matplotlib.dates
-from matplotlib.dates import HOURLY, DateFormatter, rrulewrapper, RRuleLocator
+from matplotlib.dates import DateFormatter, rrulewrapper, RRuleLocator
 import numpy as np
 
 
@@ -58,7 +58,7 @@ def CreateGanttChart(listNextPasesListList):
         task_dates[task] = customDates[i]
     fig = plt.figure(figsize=(8, 5))
     ax = fig.add_subplot(111)
-    for i in range(len(ylabels)):
+    for i, ylabel in enumerate(ylabels):
         ylabelIN, startdateIN, enddateIN = listNextPasesListList[i]
         start_date, end_date = task_dates[ylabels[i]]
         ax.barh(

diff --git a/_crontab.py b/_crontab.py
@@ -68,7 +68,7 @@ ability. There are tests...'''
 
 if sys.version_info >= (3, 0):
     _number_types = (int, float)
-    xrange = range
+    #xrange = range
 else:
     _number_types = (int, long, float)
 
